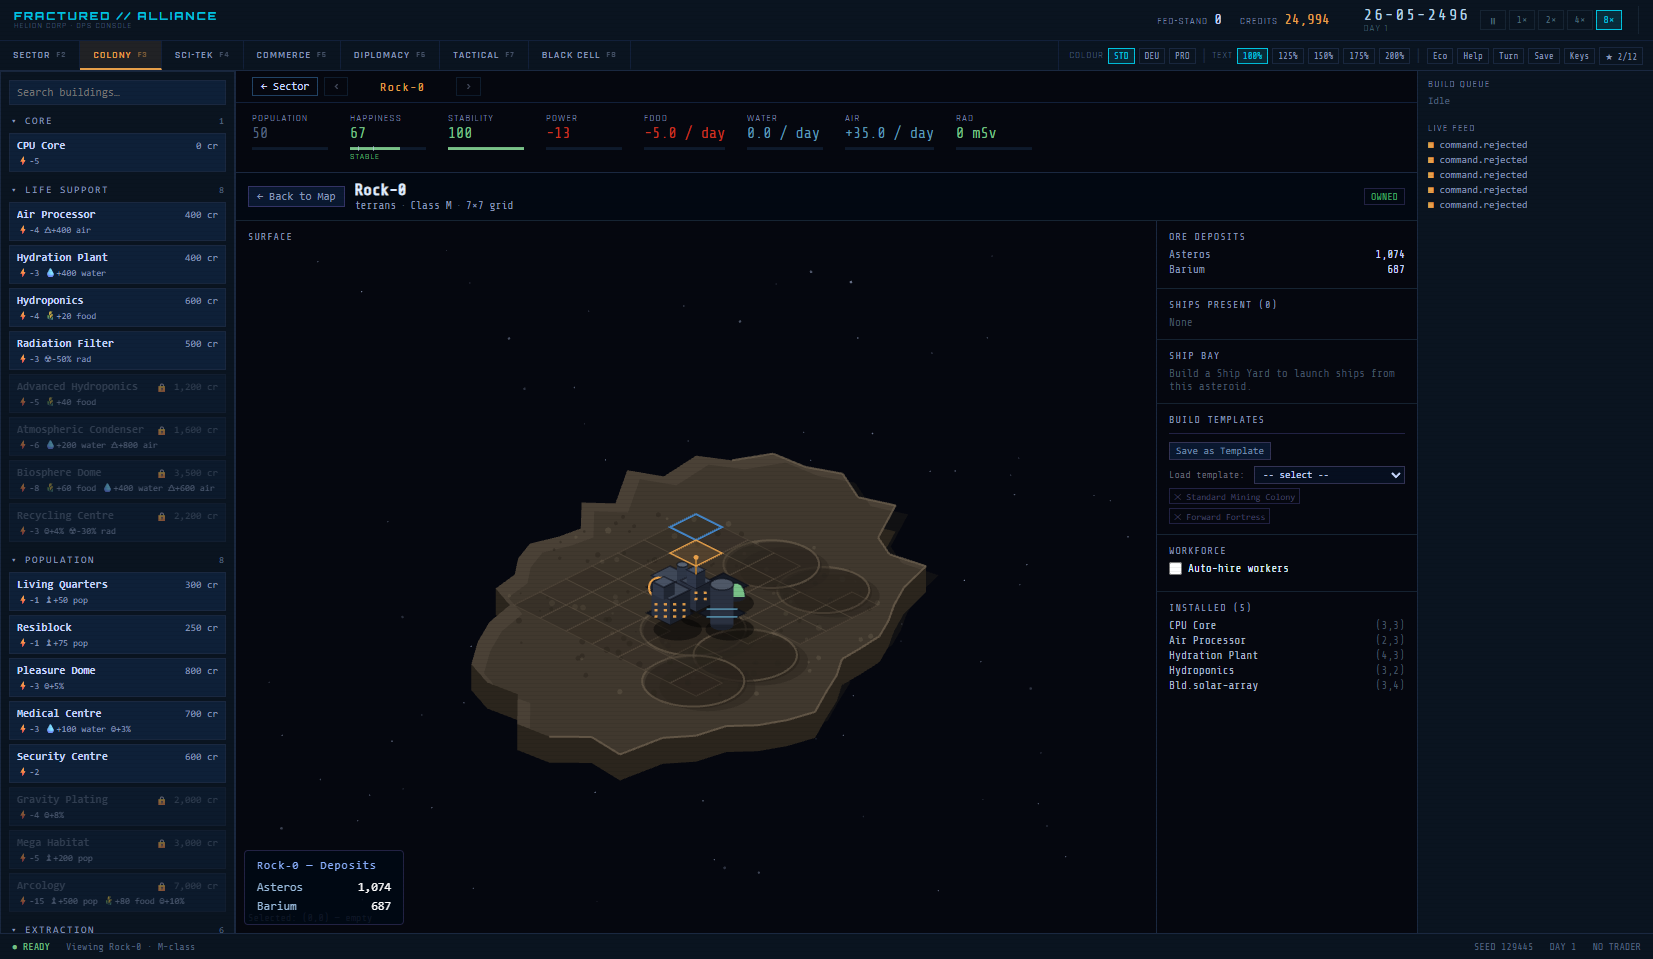
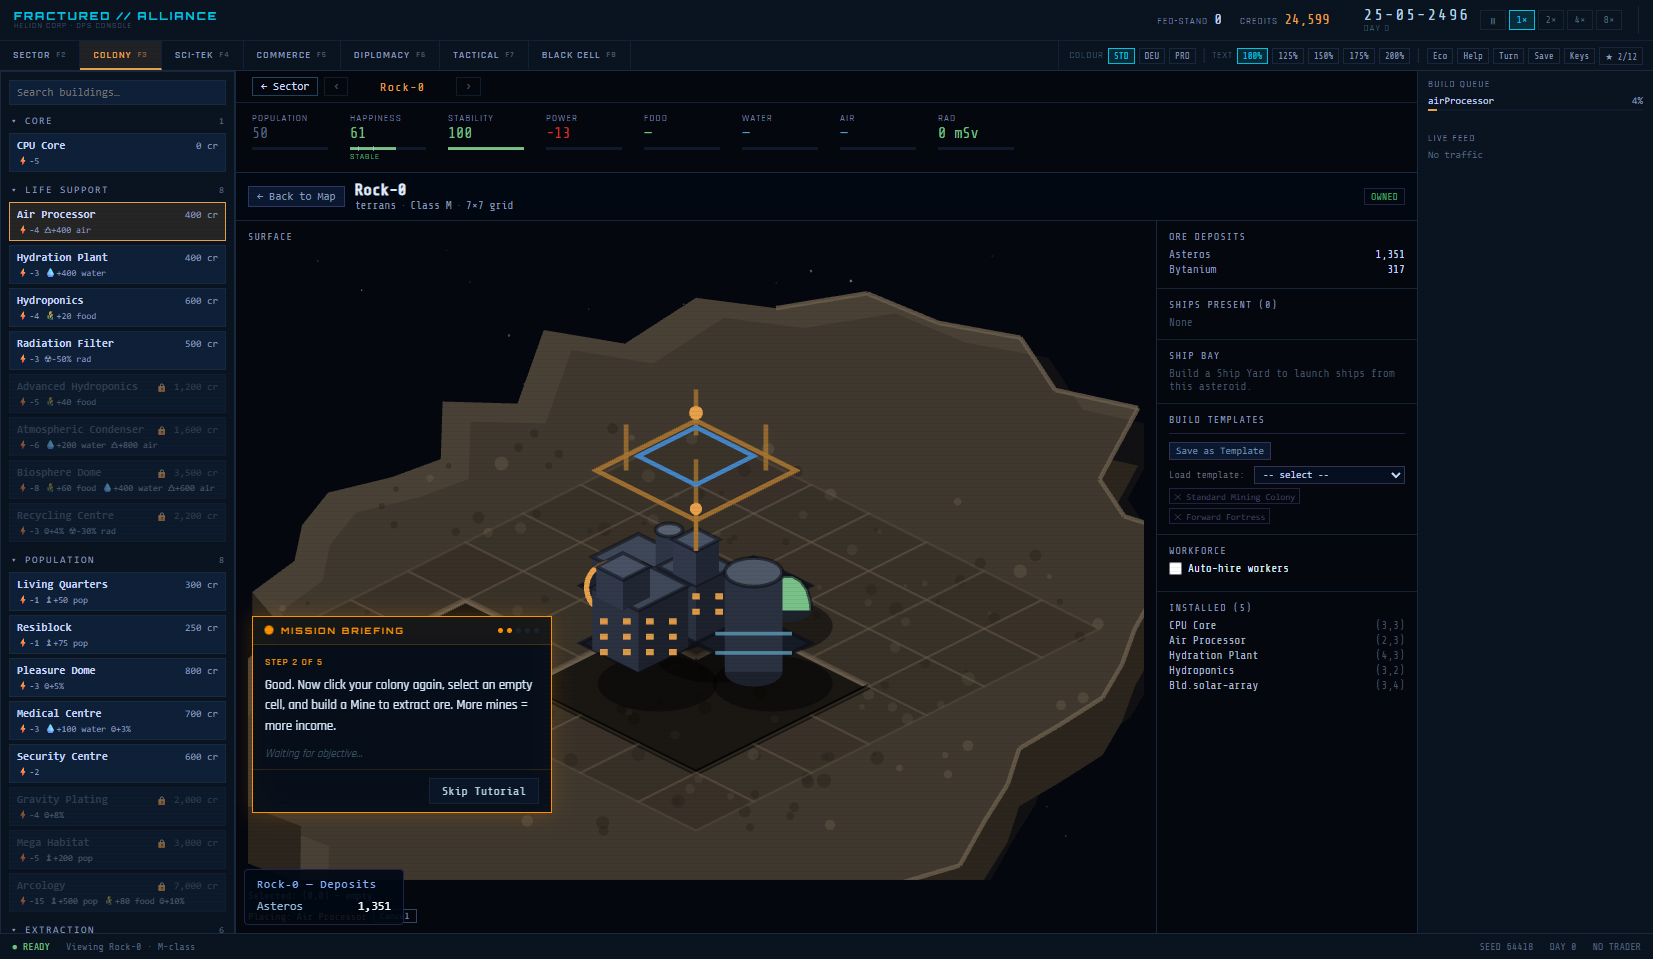
feat(surface): frame the rock so it runs to the edges
The surface filled its viewport but the rock sat inside it as a small island
in a large black field, where the original crops terrain to the frame and
curves it into the starfield.

The world container now scales to fit. It fits the *buildable grid* rather
than the rock's outline: the limb extends well past the grid, so scaling to
cover by the limb would crop cells the player has to reach. Fitting the grid
with a margin lets the limb overflow naturally, which gives the cropped look
without costing reachability.

Hit-testing divides by the same scale, so screen-to-cell still resolves —
verified by placing a building through the restored cell-then-palette flow at
the new zoom, with no rejected commands.

diff --git a/apps/web/src/game/views/asteroidSurfaceView.ts b/apps/web/src/game/views/asteroidSurfaceView.ts
@@ -157,18 +157,33 @@ export class AsteroidSurfaceView {
 
   // ── layout ────────────────────────────────────────────────────────────────
 
+  /**
+   * Frames the rock so it runs to the edges rather than floating as an island in black.
+   *
+   * Fits the *buildable grid* rather than the rock's outline: the limb extends well past
+   * the grid, so scaling to cover the viewport by the limb would crop cells the player
+   * needs to reach. Fitting the grid and letting the limb overflow gives the original's
+   * cropped-terrain look while keeping every cell on screen.
+   */
   private layout(state: SurfaceState): void {
     const extent = gridExtent(state.gridWidth, state.gridHeight);
+    const margin = 0.9;
+    const scale = Math.min(
+      (this.viewWidth * margin) / extent.width,
+      (this.viewHeight * margin) / extent.height,
+    );
+    this.world.scale.set(scale);
     // Nudge the rock below centre: buildings grow upward, so the headroom is above.
-    this.world.x = this.viewWidth / 2 - extent.width / 2 + extent.originX;
-    this.world.y = this.viewHeight / 2 - extent.height / 2 + TILE_H * 1.6;
+    this.world.x = this.viewWidth / 2 - (extent.width / 2 - extent.originX) * scale;
+    this.world.y = this.viewHeight / 2 - (extent.height / 2 - TILE_H * 1.6) * scale;
   }
 
   private toLocal(clientX: number, clientY: number): { x: number; y: number } {
     const rect = this.app.canvas.getBoundingClientRect();
+    const scale = this.world.scale.x;
     return {
-      x: clientX - rect.left - this.world.x,
-      y: clientY - rect.top - this.world.y,
+      x: (clientX - rect.left - this.world.x) / scale,
+      y: (clientY - rect.top - this.world.y) / scale,
     };
   }
 
